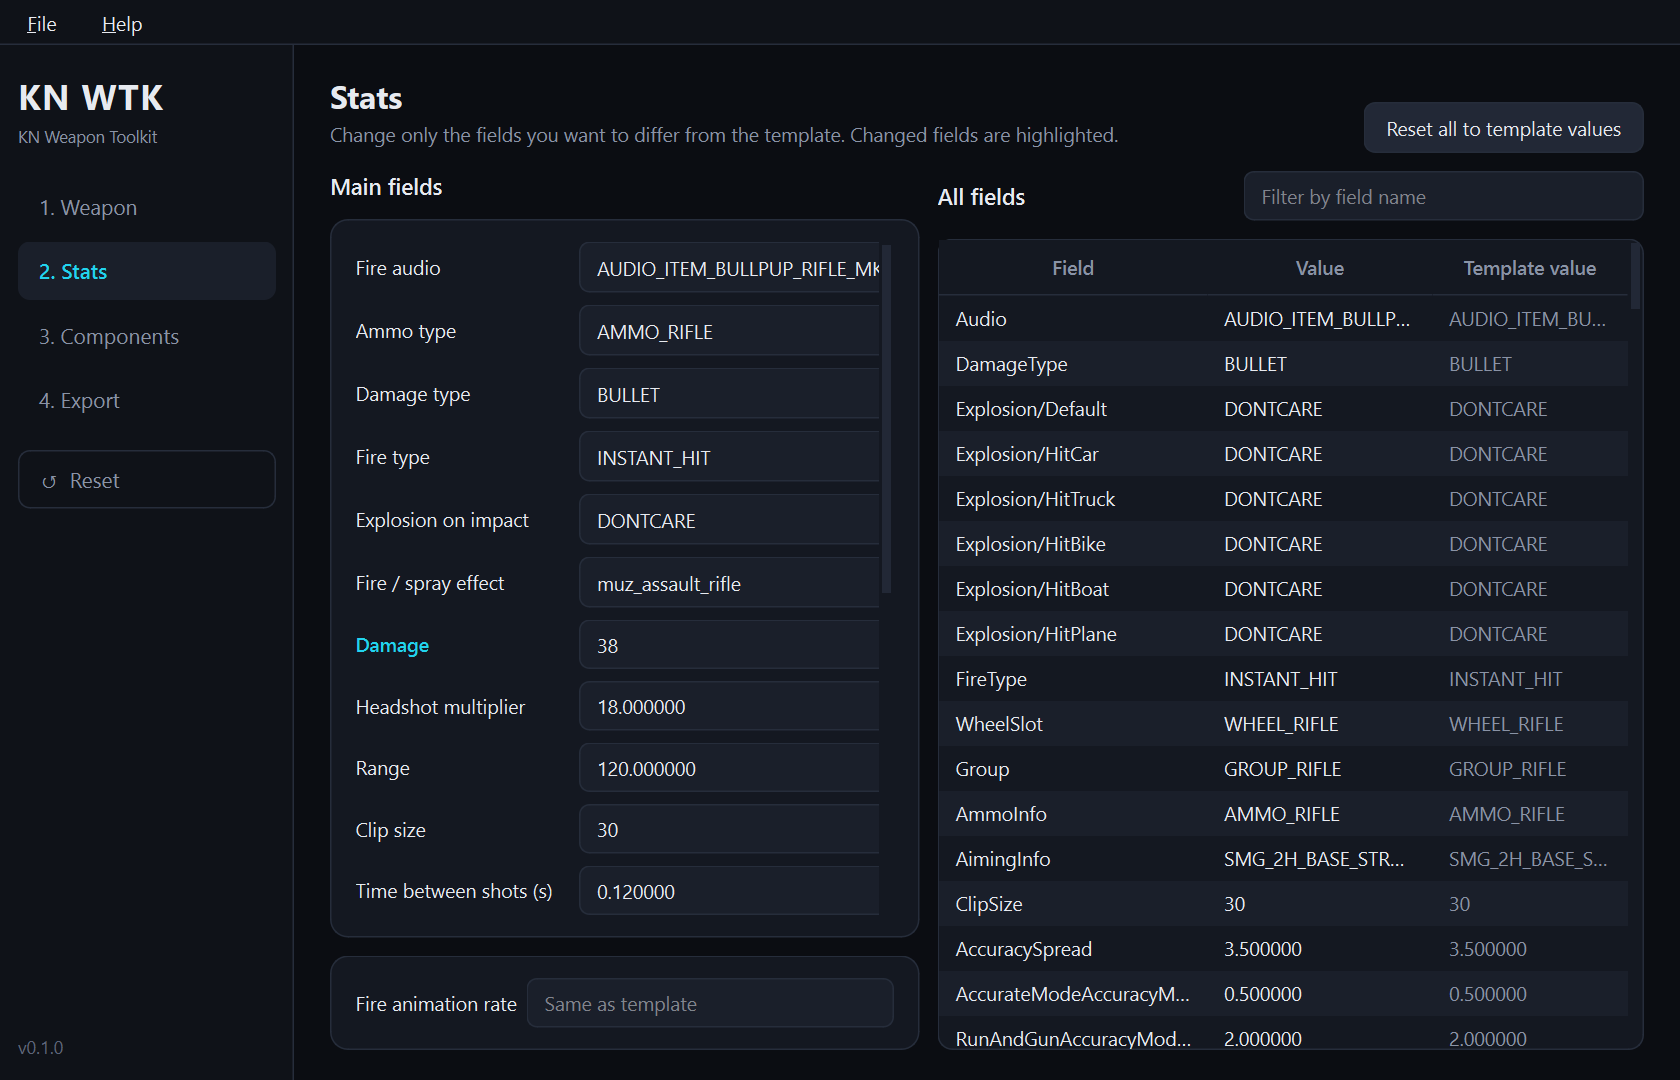
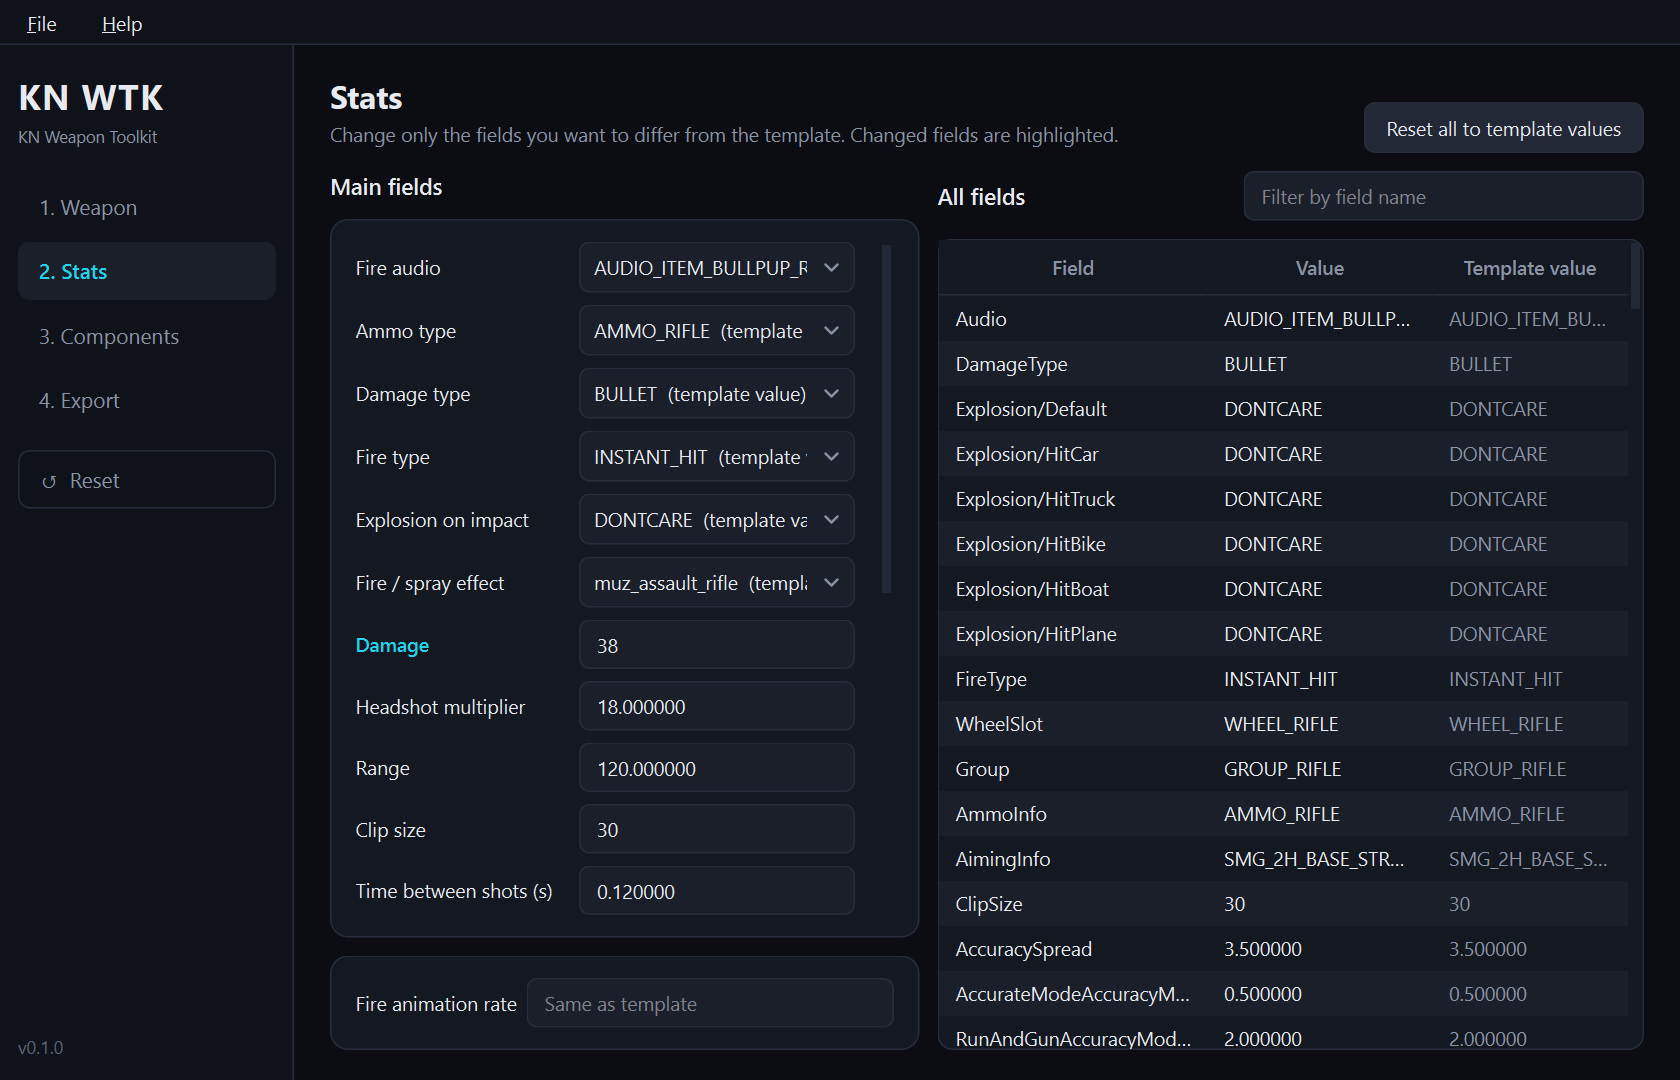
feat: 性能の候補つき項目を一覧から選ぶ形に変更(v0.1.1)
- 発砲音・弾薬の種類・ダメージの種類・発射方式・着弾時の爆発・発砲エフェクトを選択専用の一覧に
- 候補に無い値は「その他(手入力)…」から入力。既存の候補外の値は消さずに先頭へ表示
- 発射方式・ダメージの種類・着弾時の爆発に候補ごとの説明(カーソルを重ねると表示)
- 欄が一番長い候補の幅まで広がってはみ出す問題を回避
- GUI テスト 3 件追加、README のスクリーンショットを更新

diff --git a/kn_weapontoolkit/ui/stats_page.py b/kn_weapontoolkit/ui/stats_page.py
@@ -5,14 +5,16 @@ import math
 
 from PySide6.QtCore import Qt
 from PySide6.QtGui import QColor, QFont
-from PySide6.QtWidgets import (QGridLayout, QHBoxLayout, QHeaderView, QLabel, QLineEdit, QPushButton, QScrollArea,
-                               QTableWidget, QTableWidgetItem, QVBoxLayout, QWidget)
+from PySide6.QtWidgets import (QGridLayout, QHBoxLayout, QHeaderView, QInputDialog, QLabel, QLineEdit, QPushButton,
+                               QScrollArea, QTableWidget, QTableWidgetItem, QVBoxLayout, QWidget)
 
-from ..fieldinfo import BASIC_FIELDS
+from ..fieldinfo import BASIC_FIELDS, CHOICE_TIPS
 from ..i18n import tr
 from . import theme
 from .state import AppState
-from .widgets import NoWheelComboBox, card, label, page_header, repolish, set_combo_text
+from .widgets import NoWheelComboBox, card, label, page_header, repolish
+
+OTHER = object()    # 「その他(手入力)…」の印(候補の値と取り違えないよう文字列にしない)
 
 
 class StatsPage(QWidget):
@@ -120,15 +122,24 @@ class StatsPage(QWidget):
                 lb.setObjectName('fieldLabel')
                 lb.setToolTip(f'{tr(tip)}\n<{tag}>')
                 if choices is not None:
+                    # 選ぶだけの一覧。候補に無い値は最後の「その他(手入力)…」から入れる
                     ed = NoWheelComboBox()
-                    ed.setEditable(True)
-                    ed.setInsertPolicy(NoWheelComboBox.InsertPolicy.NoInsert)
-                    ed.addItems(choices)
-                    ed.editTextChanged.connect(lambda text, t=tag, e=ed: self._set(t, text, e))
+                    # 一番長い候補の幅まで欄が広がって右にはみ出すため、欄は狭く保ち、開いた一覧だけ広げる
+                    ed.setSizeAdjustPolicy(NoWheelComboBox.SizeAdjustPolicy.AdjustToMinimumContentsLengthWithIcon)
+                    ed.setMinimumContentsLength(12)
+                    tips = CHOICE_TIPS.get(tag, {})
+                    for c in choices:
+                        self._add_choice(ed, c, f.value, tips)
+                    if ed.findData(f.value) < 0:
+                        self._add_choice(ed, f.value, f.value, tips, index=0)
+                    ed.addItem(tr('その他(手入力)…'), OTHER)
+                    ed.view().setMinimumWidth(ed.view().sizeHintForColumn(0) + 32)
+                    ed.activated.connect(lambda i, t=tag, e=ed: self._on_choice(t, e, i))
                 else:
                     ed = QLineEdit()
                     ed.textEdited.connect(lambda text, t=tag, e=ed: self._set(t, text, e))
                 ed.setToolTip(lb.toolTip())
+                ed.setProperty('baseTip', lb.toolTip())
                 self.basic_grid.addWidget(lb, row, 0)
                 self.basic_grid.addWidget(ed, row, 1)
                 self._editors[tag] = (lb, ed)
@@ -161,12 +172,11 @@ class StatsPage(QWidget):
             for tag, (lb, ed) in self._editors.items():
                 f = tpl.field(tag)
                 value = p.fields.get(tag, f.value)
-                if ed is not skip:
-                    if isinstance(ed, QLineEdit):
-                        if ed.text() != value:
-                            ed.setText(value)
-                    elif ed.currentText() != value:
-                        set_combo_text(ed, value)
+                if isinstance(ed, QLineEdit):
+                    if ed is not skip and ed.text() != value:
+                        ed.setText(value)
+                else:
+                    self._show_choice(tag, ed, value, f.value)
                 changed = tag in p.fields
                 if lb.property('changed') != changed:
                     lb.setProperty('changed', changed)
@@ -217,6 +227,46 @@ class StatsPage(QWidget):
             p.fields[tag] = value
         self.refresh_values(skip=source, restyle=False)     # 入力中の欄(source)は書き戻さない(カーソルが飛ぶ)
         self.state.touch()
+
+    # --- 候補から選ぶ欄
+    @staticmethod
+    def _add_choice(combo: NoWheelComboBox, value: str, template_value: str, tips: dict[str, str],
+                    index: int = -1) -> None:
+        text = value + ('  ' + tr('(テンプレートの値)') if value == template_value else '')
+        if index < 0:
+            index = combo.count() - (1 if combo.count() and combo.itemData(combo.count() - 1) is OTHER else 0)
+        combo.insertItem(index, text, value)
+        if value in tips:
+            combo.setItemData(index, tr(tips[value]), Qt.ItemDataRole.ToolTipRole)
+
+    def _show_choice(self, tag: str, combo: NoWheelComboBox, value: str, template_value: str) -> None:
+        """value を選んだ状態にする。候補に無い値(手入力・取り込んだテンプレート)は先頭に足して、消さずに見せる。"""
+        i = combo.findData(value)
+        if i < 0:
+            self._add_choice(combo, value, template_value, CHOICE_TIPS.get(tag, {}), index=0)
+            i = 0
+        if combo.currentIndex() != i:
+            combo.setCurrentIndex(i)
+        tip = combo.itemData(i, Qt.ItemDataRole.ToolTipRole)
+        base = combo.property('baseTip')
+        combo.setToolTip(f'{base}\n\n{value}' + (f': {tip}' if tip else ''))     # 欄が狭く値が切れて見えるときのため値も出す
+
+    def _ask_value(self, title: str, current: str) -> str | None:
+        """候補に無い値を入れてもらう。テストでは差し替える。"""
+        text, ok = QInputDialog.getText(self, title, tr('値を入力してください(候補に無いもの)。'), text=current)
+        return text.strip() if ok and text.strip() else None
+
+    def _on_choice(self, tag: str, combo: NoWheelComboBox, index: int) -> None:
+        data = combo.itemData(index)
+        if data is OTHER:
+            lb = self._editors[tag][0]
+            tpl = self.state.template()
+            current = self.state.project.fields.get(tag, tpl.field(tag).value if tpl is not None else '')
+            data = self._ask_value(lb.text(), current)
+            if data is None:
+                self.refresh_values()       # 取り消したら、前の値の表示に戻す
+                return
+        self._set(tag, data)
 
     def _on_cell(self, row: int, column: int) -> None:
         if self._loading or column != 1:

diff --git a/tests/test_gui.py b/tests/test_gui.py
@@ -139,6 +139,57 @@ class GuiTest(unittest.TestCase):
         self.assertEqual(w.stack.currentIndex(), 0)
         self.assertEqual(w.weapon_page.weapon_id.text(), fresh.weapon_id)
 
+    def _stats_combo(self, tag):
+        from kn_weapontoolkit.model import Project
+        w = self.win
+        w.state.set_project(Project(), None)
+        page = w.stats_page
+        return w.state, page, page._editors[tag][1]
+
+    def test_choice_is_select_only(self):
+        from kn_weapontoolkit.ui.stats_page import OTHER
+        state, page, combo = self._stats_combo('AmmoInfo')
+        tpl_value = state.template().field('AmmoInfo').value
+        self.assertFalse(combo.isEditable())
+        self.assertEqual(combo.currentData(), tpl_value)
+        self.assertIn(tpl_value, combo.currentText())          # 「(テンプレートの値)」付きで表示
+        self.assertIs(combo.itemData(combo.count() - 1), OTHER)
+        i = combo.findData('AMMO_SNIPER')
+        combo.activated.emit(i)
+        self.assertEqual(state.project.fields['AmmoInfo'], 'AMMO_SNIPER')
+        combo.activated.emit(combo.findData(tpl_value))         # テンプレートの値に戻すと変更なし
+        self.assertNotIn('AmmoInfo', state.project.fields)
+        state.dirty = False
+
+    def test_choice_other_and_unlisted_value(self):
+        state, page, combo = self._stats_combo('AmmoInfo')
+        n = combo.count()
+        page._ask_value = lambda _title, _cur: 'AMMO_MY_ADDON'
+        try:
+            combo.activated.emit(combo.count() - 1)
+        finally:
+            del page._ask_value
+        self.assertEqual(state.project.fields['AmmoInfo'], 'AMMO_MY_ADDON')
+        self.assertEqual(combo.currentData(), 'AMMO_MY_ADDON')     # 候補に無い値も消さずに見せる
+        self.assertEqual(combo.count(), n + 1)
+        page._ask_value = lambda _title, _cur: None                 # 取り消し: 値は変わらない
+        try:
+            combo.activated.emit(combo.count() - 1)
+        finally:
+            del page._ask_value
+        self.assertEqual(state.project.fields['AmmoInfo'], 'AMMO_MY_ADDON')
+        self.assertEqual(combo.currentData(), 'AMMO_MY_ADDON')
+        state.dirty = False
+
+    def test_choice_tooltip(self):
+        from PySide6.QtCore import Qt
+        state, page, combo = self._stats_combo('FireType')
+        i = combo.findData('PROJECTILE')
+        self.assertTrue(combo.itemData(i, Qt.ItemDataRole.ToolTipRole))
+        combo.activated.emit(i)
+        self.assertIn('PROJECTILE:', combo.toolTip())
+        state.dirty = False
+
     def test_reset_cancel_keeps_project(self):
         w = self.win
         p = w.state.project

diff --git a/kn_weapontoolkit/i18n/en.py b/kn_weapontoolkit/i18n/en.py
@@ -254,6 +254,29 @@ T: dict[str, str] = {
         'Change only the fields you want to differ from the template. Changed fields are highlighted.',
     '射撃動作の速度倍率': 'Fire animation rate',
     '主な項目': 'Main fields',
+    'その他(手入力)…': 'Other (type a value)…',
+    '(テンプレートの値)': '(template value)',
+    '値を入力してください(候補に無いもの)。': 'Enter a value that is not in the list.',
+    # --- choice tooltips
+    '弾が即座に当たる。普通の銃。': 'Hits instantly. Ordinary guns.',
+    'スナイパーライフル・マークスマンライフル・マスケットが使う方式。':
+        'Used by sniper rifles, marksman rifles and the musket.',
+    '弾が実体として飛ぶ。ロケット・グレネード・投擲物。': 'Fires a physical projectile. Rockets, grenades, throwables.',
+    '噴射。消火器・ガソリン缶。': 'Spray. Fire extinguisher, jerry can.',
+    '近接武器。': 'Melee weapons.',
+    '撃たない。': 'Does not fire.',
+    '弾。普通の銃。': 'Bullets. Ordinary guns.',
+    '爆発。ランチャー・グレネード。着弾時の爆発を使うときもこれにします。':
+        'Explosive. Launchers, grenades. Also required for an explosion on impact.',
+    '炎。火炎瓶。': 'Fire. Molotov.',
+    '電撃。スタンガン・スタンロッド。': 'Electric. Stun gun, stun rod.',
+    '煙・ガス。スモークグレネード・BZガス。': 'Smoke / gas. Smoke grenade, BZ gas.',
+    'ダメージなし。ボール・照明弾・雪玉など。': 'No damage. Ball, flare, snowball, etc.',
+    '消火器の噴射。': 'Fire extinguisher spray.',
+    '爆発しない。バニラの普通の銃はこれ。': 'No explosion. Vanilla ordinary guns use this.',
+    'レールガンの爆発。': 'Railgun explosion.',
+    'レールガン(XM3)の爆発。': 'Railgun (XM3) explosion.',
+    'グレネードの爆発。': 'Grenade explosion.',
     '項目': 'Field',
     '値': 'Value',
     'テンプレートの値': 'Template value',

diff --git a/kn_weapontoolkit/fieldinfo.py b/kn_weapontoolkit/fieldinfo.py
@@ -29,3 +29,31 @@ BASIC_FIELDS: list[tuple[str, str, str, list[str] | None]] = [
     ('DamageFallOffModifier', N_('減衰後の威力倍率'), N_('減衰しきったときのダメージ倍率。'), None),
 ]
 BASIC_TAGS = [f[0] for f in BASIC_FIELDS]
+
+# 候補ごとの説明(一覧で候補にカーソルを重ねると出る)。同梱テンプレートで使い道を確かめられたものだけ載せる
+CHOICE_TIPS: dict[str, dict[str, str]] = {
+    'FireType': {
+        'INSTANT_HIT': N_('弾が即座に当たる。普通の銃。'),
+        'DELAYED_HIT': N_('スナイパーライフル・マークスマンライフル・マスケットが使う方式。'),
+        'PROJECTILE': N_('弾が実体として飛ぶ。ロケット・グレネード・投擲物。'),
+        'VOLUMETRIC_PARTICLE': N_('噴射。消火器・ガソリン缶。'),
+        'MELEE': N_('近接武器。'),
+        'NONE': N_('撃たない。'),
+    },
+    'DamageType': {
+        'BULLET': N_('弾。普通の銃。'),
+        'MELEE': N_('近接武器。'),
+        'EXPLOSIVE': N_('爆発。ランチャー・グレネード。着弾時の爆発を使うときもこれにします。'),
+        'FIRE': N_('炎。火炎瓶。'),
+        'ELECTRIC': N_('電撃。スタンガン・スタンロッド。'),
+        'SMOKE': N_('煙・ガス。スモークグレネード・BZガス。'),
+        'NONE': N_('ダメージなし。ボール・照明弾・雪玉など。'),
+        'FIRE_EXTINGUISHER': N_('消火器の噴射。'),
+    },
+    'Explosion/Default': {
+        'DONTCARE': N_('爆発しない。バニラの普通の銃はこれ。'),
+        'EXP_TAG_RAILGUN': N_('レールガンの爆発。'),
+        'EXP_TAG_RAILGUNXM3': N_('レールガン(XM3)の爆発。'),
+        'GRENADE': N_('グレネードの爆発。'),
+    },
+}

diff --git a/kn_weapontoolkit/__init__.py b/kn_weapontoolkit/__init__.py
@@ -2,4 +2,4 @@
 
 APP_NAME = 'kn_weapontoolkit'
 APP_DISPLAY_NAME = 'KN Weapon Toolkit'
-__version__ = '0.1.0'
+__version__ = '0.1.1'

diff --git a/README.md b/README.md
@@ -37,7 +37,7 @@ Python / PySide6 で新しく書き直したものです。元ツールで起き
 
 1. [Releases](https://github.com/Kanayu-u/kn_weapontoolkit/releases) から zip を取得して展開し、`kn_weapontoolkit.exe` を起動する(`templates` フォルダは exe と同じ場所に置いたままにする)
 2. **1. 武器** — モデルのフォルダを選ぶ(ウィンドウへのドロップでも可)。テンプレート・表示名・武器 ID・モデル名を決める。バニラ武器のモデルをそのまま使うなら、フォルダは選ばずモデル名だけでよい
-3. **2. 性能** — 変えたい値だけ書き換える(省略可)
+3. **2. 性能** — 変えたい値だけ書き換える(省略可)。弾薬の種類や発射方式などは一覧から選ぶ。候補にカーソルを重ねると説明が出るものがある。候補に無い値は一覧の最後の「その他(手入力)…」から入れる
 4. **3. コンポーネント** — 「ファイルから自動検出」か「追加」で部品を定義する(省略可)
 5. **4. 書き出し** — 点検結果を確認し、書き出し先を選んで「書き出す」
 6. できたフォルダをサーバーの `resources` に置き、`server.cfg` に `ensure <リソース名>` を足す

diff --git a/README.en.md b/README.en.md
@@ -38,7 +38,7 @@ The full list is in [CHANGELOG.md](CHANGELOG.md) (Japanese).
 
 1. Download the zip from [Releases](https://github.com/Kanayu-u/kn_weapontoolkit/releases), extract it and run `kn_weapontoolkit.exe` (keep the `templates` folder next to the exe)
 2. **1. Weapon** — select the model folder (or drop it on the window), then set the template, display name, weapon ID and model name. To reuse a vanilla weapon model, just enter its name and leave the folder empty
-3. **2. Stats** — change only the values you want (optional)
+3. **2. Stats** — change only the values you want (optional). Fields such as ammo type and fire type are picked from a list; some entries show a description when you hover over them. To use a value not in the list, choose "Other (type a value)…" at the bottom
 4. **3. Components** — define parts with "Detect from files" or "Add" (optional)
 5. **4. Export** — review the checks, choose an output folder and press "Export"
 6. Put the exported folder in your server's `resources` and add `ensure <resource name>` to `server.cfg`

diff --git a/CHANGELOG.md b/CHANGELOG.md
@@ -2,6 +2,12 @@
 
 形式は [Keep a Changelog](https://keepachangelog.com/ja/1.1.0/) に準じ、バージョンは Semantic Versioning に従います。
 
+## [0.1.1] - 2026-10-04
+
+### Changed
+- 「性能」の発砲音・弾薬の種類・ダメージの種類・発射方式・着弾時の爆発・発砲エフェクトを、手入力の欄から一覧で選ぶ形に変更。テンプレートの値には「(テンプレートの値)」と付く。候補に無い値は一覧の最後の「その他(手入力)…」から入れる。候補に無い値(取り込んだテンプレートなど)は一覧の先頭に足して表示し、消さない
+- 発射方式・ダメージの種類・着弾時の爆発は、一覧の候補にカーソルを重ねると説明が出る
+
 ## [0.1.0] - 2026-10-03
 
 vWeaponsToolkit(Robbster)と、そのフォーク FiveM Addon Weapon Tool Kit v1.5.1(Hxrv3y)を参考にした最初の版。
